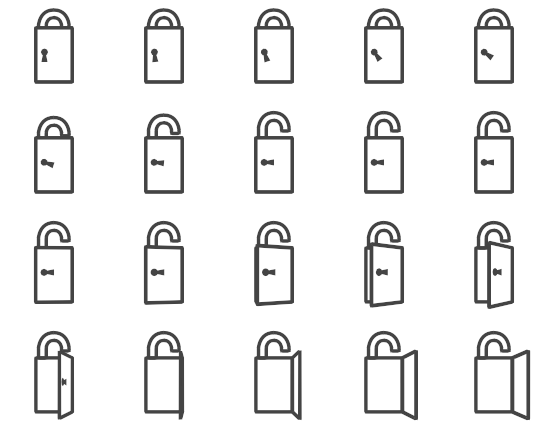
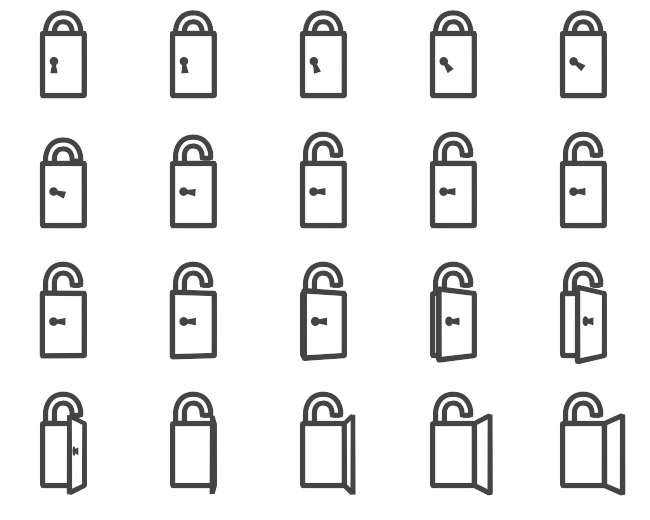
thicker lines for numbers and doors

diff --git a/src/states/load.js b/src/states/load.js
@@ -18,11 +18,10 @@ export class LoadState extends Phaser.State {
 		//game.load.bitmapFont('small', 'font/small.png', 'font/small.fnt');
 		game.load.spritesheet('level-button', 'img/level-button.png', 32, 32);
 		game.load.spritesheet('dot', 'img/dot.png', 20, 20);
-		game.load.spritesheet('one', 'img/one.png', 80, 80);
-		game.load.spritesheet('two', 'img/two.png', 80, 80);
-		game.load.spritesheet('three', 'img/three.png', 80, 80);
-		//game.load.spritesheet('number', 'img/number.png', 40, 40);
-		game.load.spritesheet('door', 'img/door.png', 110, 110);
+		game.load.spritesheet('one', 'img/one.png', 100, 100);
+		game.load.spritesheet('two', 'img/two.png', 100, 100);
+		game.load.spritesheet('three', 'img/three.png', 100, 100);
+		game.load.spritesheet('door', 'img/door.png', 130, 130);
 		game.load.spritesheet('ui', 'img/ui.png', 32, 32);
 		game.load.spritesheet('charge', 'img/charge.png', 60, 60);
 		game.load.spritesheet('starburst', 'img/starburst.png', 130, 130);

diff --git a/src/objects/dot.js b/src/objects/dot.js
@@ -29,10 +29,10 @@ export class Dot extends Phaser.Image {
 				value = 1;
 				key = 'one';
 			} else if (type === '2') {
-				idleFrames = [9, 8, 7, 6, 5, 4, 3, 2, 
-							  1, 2, 3, 4, 5, 6, 7, 8, 
-							  9, 10, 11, 12, 13, 14, 15, 16, 
-							  17, 16, 15, 14, 13, 12, 11, 10];
+				idleFrames = [0, 1, 2, 3, 4, 5, 6, 7,
+							  8, 7, 6, 5, 4, 3, 2, 1,
+							  0, 9, 10, 11, 12, 13, 14, 15,
+							  16, 15, 14, 13, 12, 11, 10, 9];
 				dieFrames = [18];
 				value = 2;
 				key = 'two';
@@ -40,7 +40,7 @@ export class Dot extends Phaser.Image {
 				idleFrames = [0, 1, 2, 3, 4, 5, 6, 7,
 							  8, 9, 10, 11, 12, 13, 14, 15,
 							  16, 17, 18, 19, 20, 21, 22, 23,
-							  24, 25, 26, 27, 28, 29, 30, 0];
+							  24, 25, 26, 27, 28, 29, 30, 31];
 				dieFrames = [31];
 				value = 3;
 				key = 'three';
